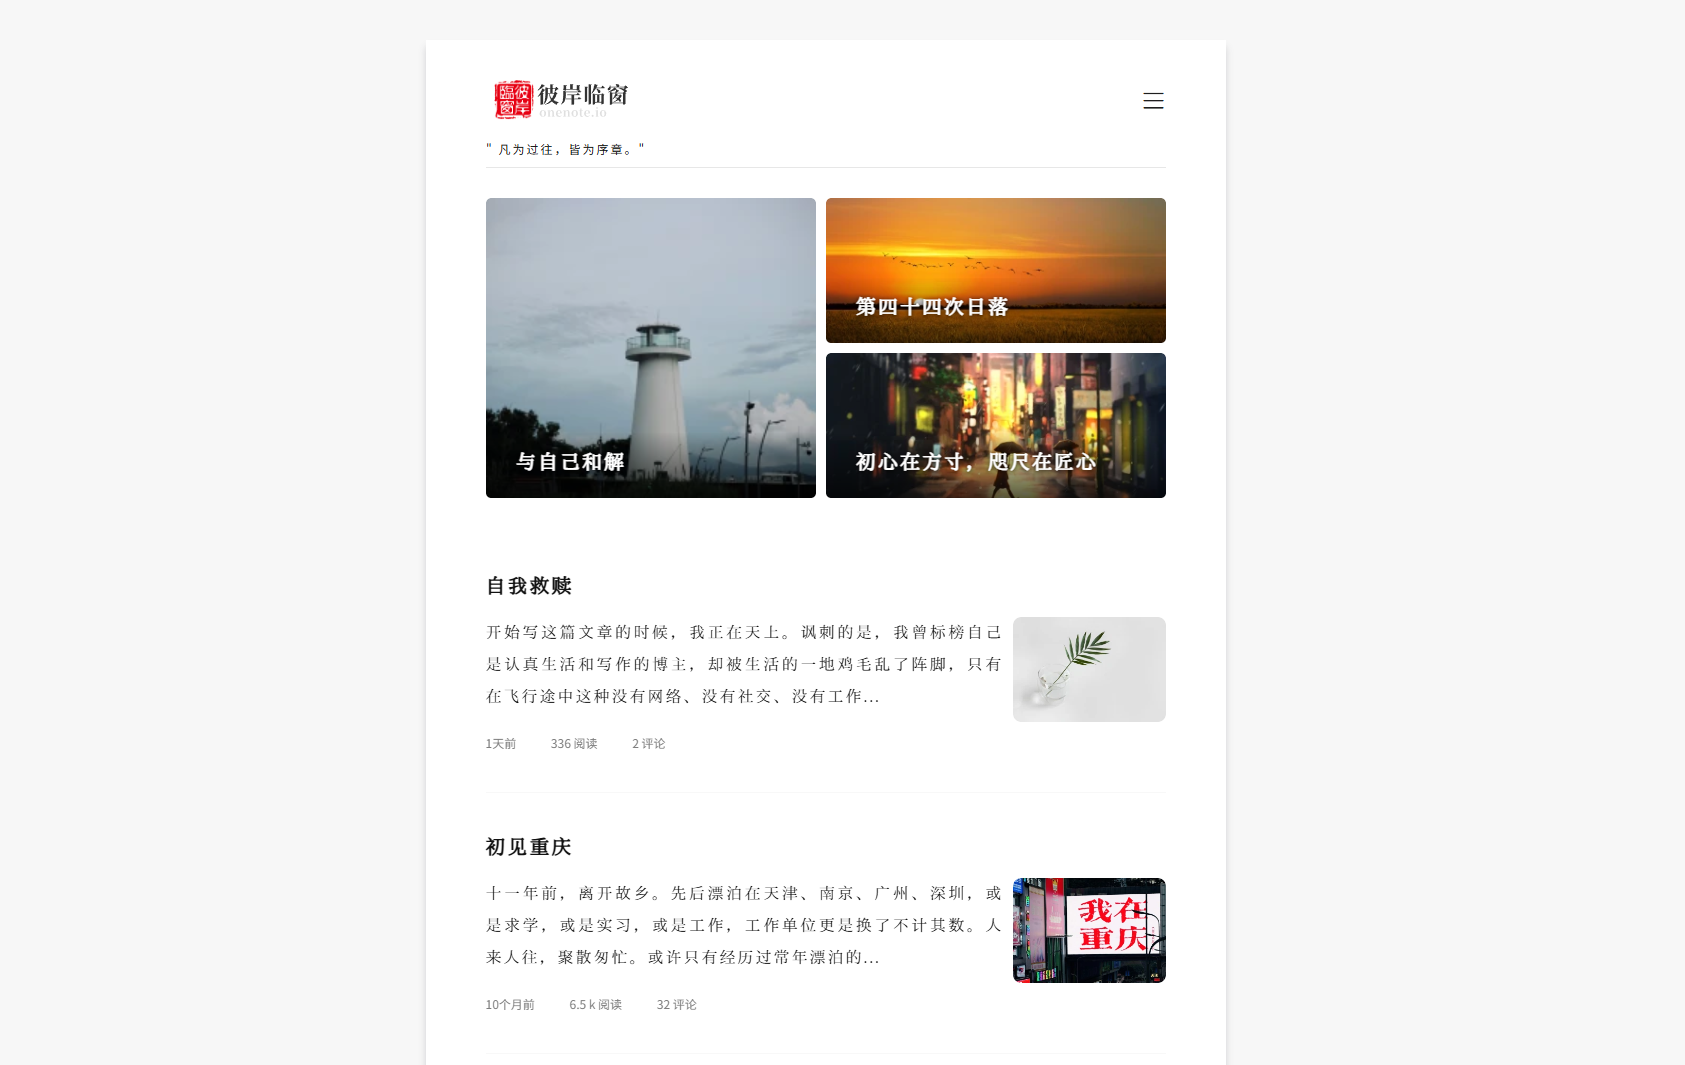
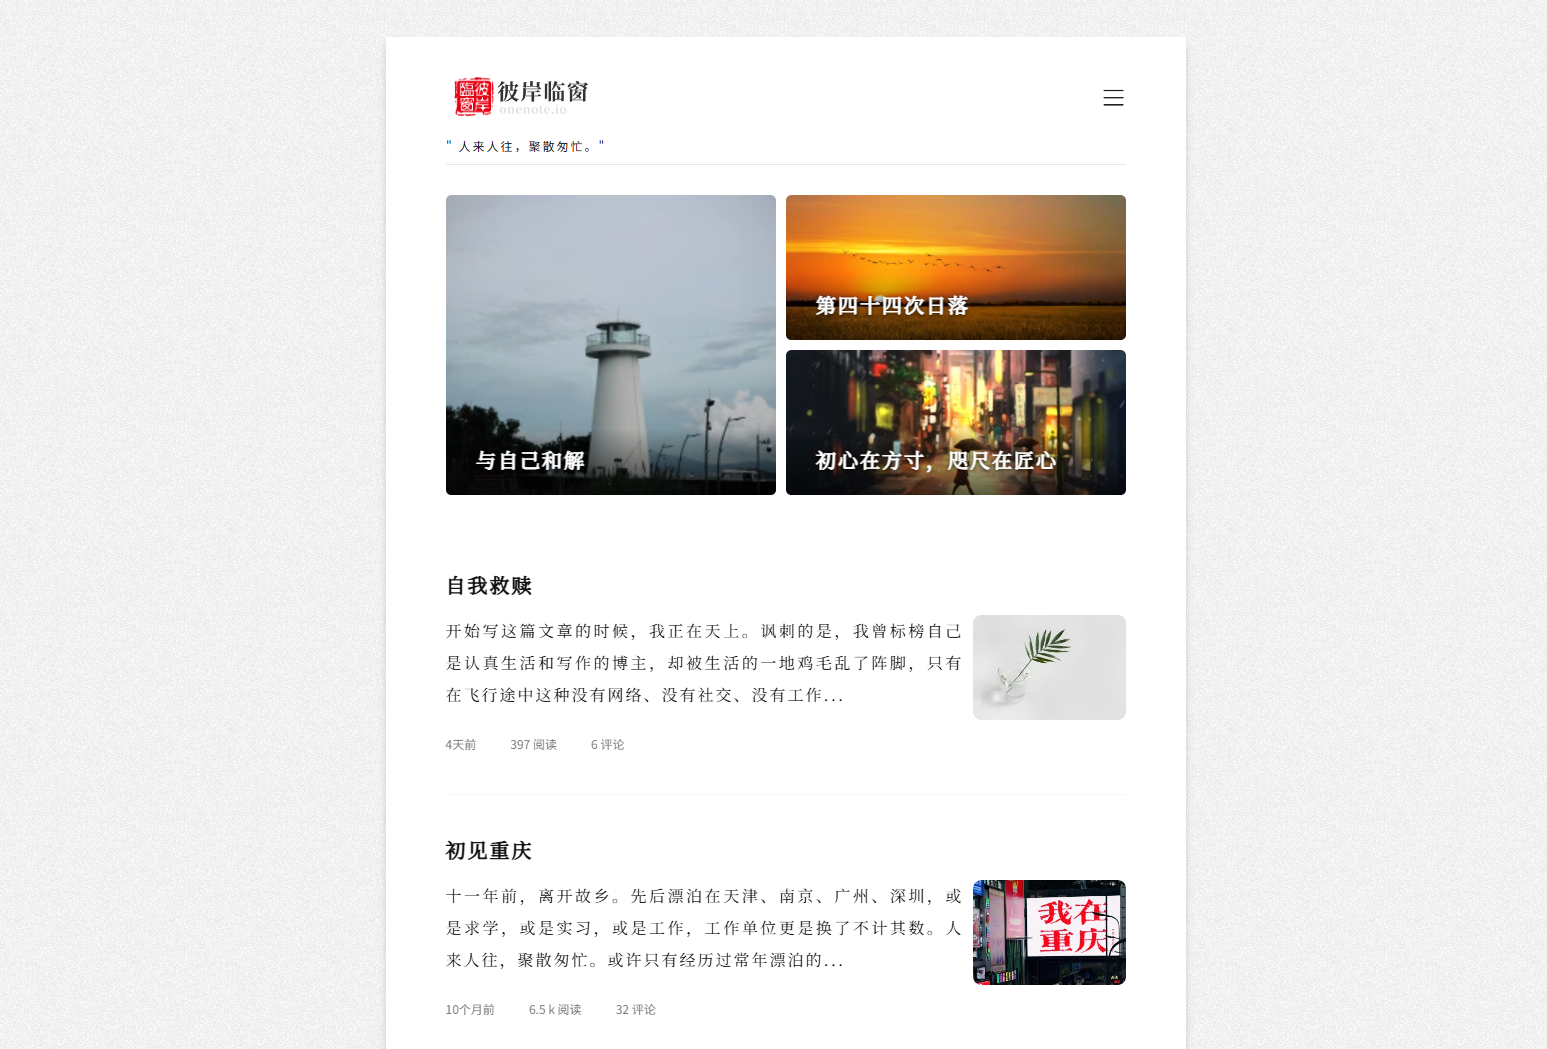
排除.svg图片的灯箱效果及.no-ligthbox的自动灯箱效果

diff --git a/functions.php b/functions.php
@@ -727,13 +727,29 @@ function getTopTags() {
 }
 
 //文章内图片标签自动解析为灯箱效果
+//文章内图片标签自动解析为灯箱效果
 function AutoLightbox($content) {
-    if (empty($content)) {return $content;}
-    $pattern = '/<img.*?src=["\'](.*?)["\'].*?>/i';
-    if (!preg_match($pattern, $content)) {return $content;}
-    $replacement = '<a data-fancybox="gallery" href="$1"><img class="lazy-load" data-src="$1" src="$1" /></a>';
-    $content = preg_replace($pattern, $replacement, $content);
-    return $content;
+    if (empty($content) || stripos($content, '<img') === false) {
+        return $content;
+    }
+    $pattern = '/<img\b[^>]*src=["\']([^"\']+)["\'][^>]*>/i';
+    return preg_replace_callback($pattern, function ($matches) {
+        $imgTag = $matches[0];
+        $src = $matches[1];
+        $path = parse_url($src, PHP_URL_PATH);
+        //.svg后缀不加灯箱效果
+        if ($path && strtolower(pathinfo($path, PATHINFO_EXTENSION)) === 'svg') {
+            return $imgTag;
+        }
+        //.no-lightbox 类排除灯箱效果
+        if (preg_match('/class=["\'][^"\']*\bno-lightbox\b[^"\']*["\']/i', $imgTag)) {
+            return $imgTag;
+        }
+        if (preg_match('/data-fancybox/i', $imgTag)) {
+            return $imgTag;
+        }
+        return '<a data-fancybox="gallery" href="' . htmlspecialchars($src, ENT_QUOTES) . '">' . $imgTag . '</a>';
+    }, $content);
 }
 
 //表情短代码解析
